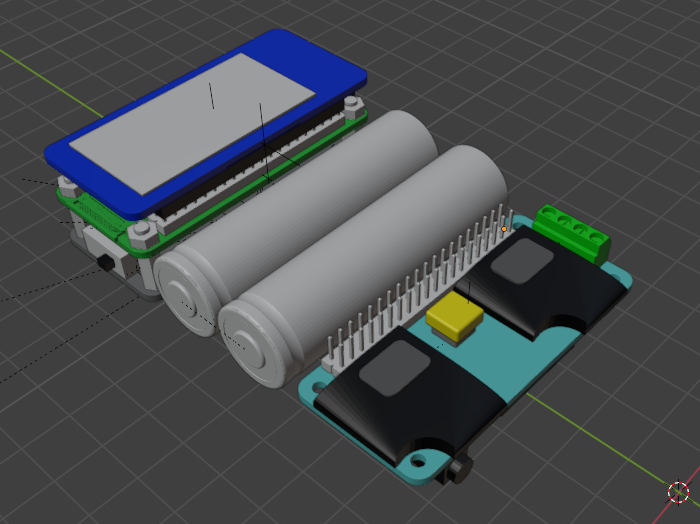
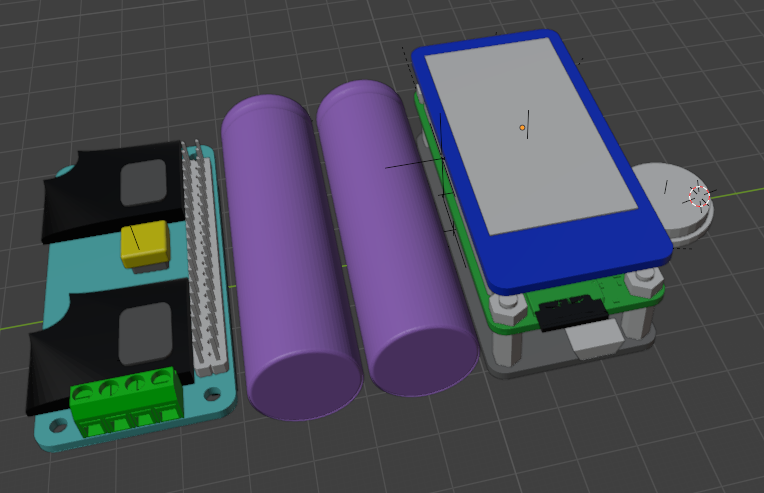
Improvement of the README.md file

diff --git a/Connexions_GPIO_Shim.md b/Connexions_GPIO_Shim.md
@@ -1,0 +1,31 @@
+# Connexions pour les GPIO
+
+## A- Connecteur fin type SHIM
+Comme le nombre de connexions au Raspberry Pi est assez élevé ([voir tableau](##c--tableau-des-connexions)), j'ai besoin de créer un connecteur très fin qui s'imbriquera entre le Raspberry Pi et l'écran (mais aussi sur le Hat Mic+V3).  
+Le différents modules seont soudés sur ce connecteur fin, pas directement sur les GPIO.
+
+Ce connecteur "*PiFace Shim I/O prototype extension for Raspberry Pi*" a existé mais est "**Discontinued**" et introuvable. Il serait pourtant assez facile de le créer sous <img src="https://cdn.simpleicons.org/kicad/FFFF" width="40" height="40" style="vertical-align: middle;" /> par exemple et de le faire réaliser par  "PCB Way" ou "JLCPCB".
+
+![](./readme_assets/Connexions_GPIO_Shim.png)
+
+Les trous réservés aux broches GPIO du RPi sont **décalés d' 1/4 de millimètres** une fois sur deux. Ce qui tord légèrement les broches et assure un bon contact électrique !!!
+
+## B- Avantages
+
+Ce connecteur type SHIM permettra :
+
+- d'éviter de souder directement le RPi
+- d'éviter de souder directement le module Mic+V3 et les autres modules
+- plus de flexibilité et moins de risques pour un assemblage et une réparation plus facile.
+
+Ce tout petit PCB devrait être très **bon marcher** à faire produire en quelques dizaines pour commencer. Il fera **gagner beaucoup de temps** à l'assemblage et la réparation du MAEL ScanPi. Il fera **gagner de la place** et **évitera les risques** de mauvaises connexions.
+
+## C- Tableau des connexions
+
+| Module                                                       | Mode de connexion                              | GPIO utilisés |
+| ------------------------------------------------------------ | ---------------------------------------------- | ------------- |
+| Uninterruptible Power Supply UPS HAT For Raspberry Pi Zero   | Au dessous. Laisse les GPIO libres             |               |
+| [mic+](https://raspiaudio.com/product/mic/) (DAC + Ampli / HP + Sortie Jack) | Ayant son propre connecté relié à celui du RPi |               |
+| GM861S-LED                                                   | Soudé au connecteur du RPi                     |               |
+| 2.13inch E-Paper HAT (B), 250x122, Red/Black/White, SPI Interface | Connecté comme Hat                             |               |
+| MPR121 V12 - Capacitive Touch Sensor                         | Soudé au connecteur du RPi                     |               |

diff --git a/00-DVLP_plan_MAEL_Scan_pi_V3.md b/00-DVLP_plan_MAEL_Scan_pi_V3.md
@@ -25,11 +25,11 @@ Configuration :
 
 #### 	a- Configurer une ouverture automatique de la session par défaut. 
 
-Avec un clavier et un écran, lancer `raspi-config > 1 System Options > S6 Auto Login`
+Avec un clavier et un écran, lancer `sudo raspi-config > 1 System Options > S6 Auto Login`
 
 #### 	b- **Configuration du Wifi**
 
-1. Configurer le wifi depuis `raspi-config`.
+1. Configurer le wifi depuis `sudo raspi-config > 1 System Options > S1 Wirless LAN`.
 2. Si encore ne fonctionne pas automatiquement : configurer **NetworkManager** à la main : 
 
 ```bash

diff --git a/README.md b/README.md
@@ -160,6 +160,8 @@ J'ai fait un test : un gros code QR (150px) peut contenir +- 120 caractères. Ce
 
 ![Model3D_1](readme_assets/Model3D_1.png)
 
+![Model3D_1](readme_assets/Model3D_2.png)
+
 **Qualités :**
 
 - Plus petit et léger :snowflake:
